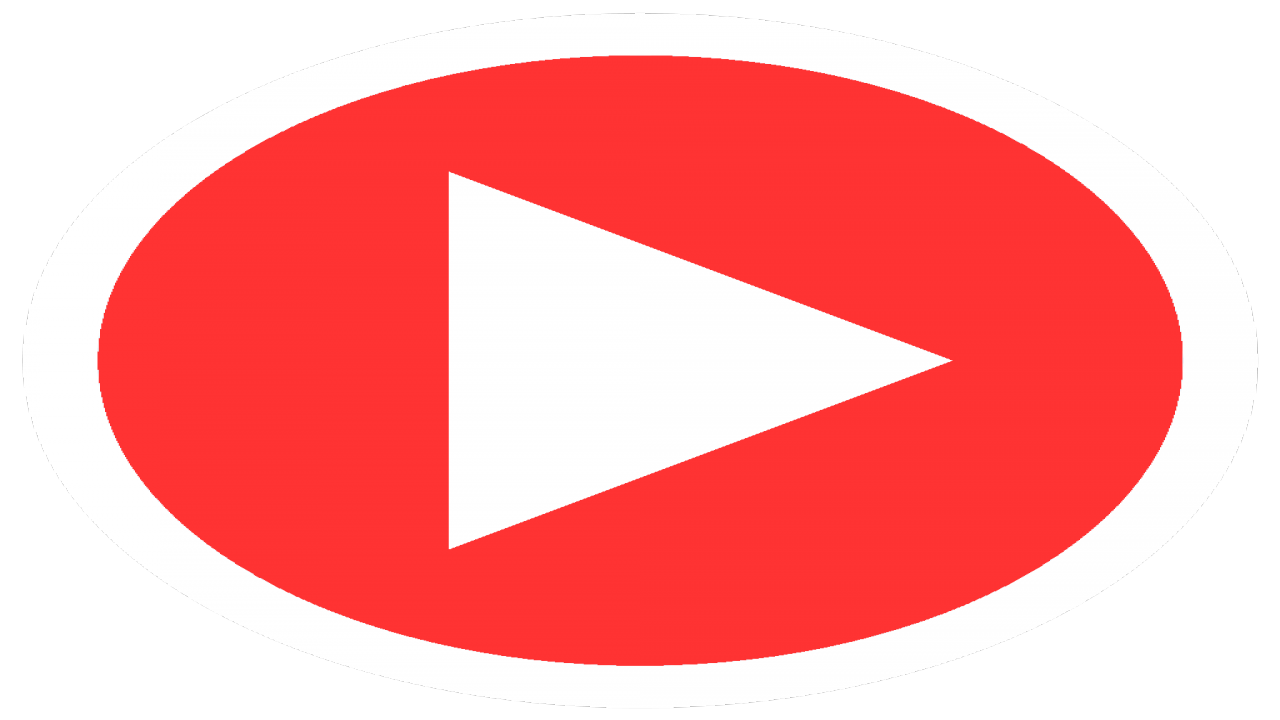
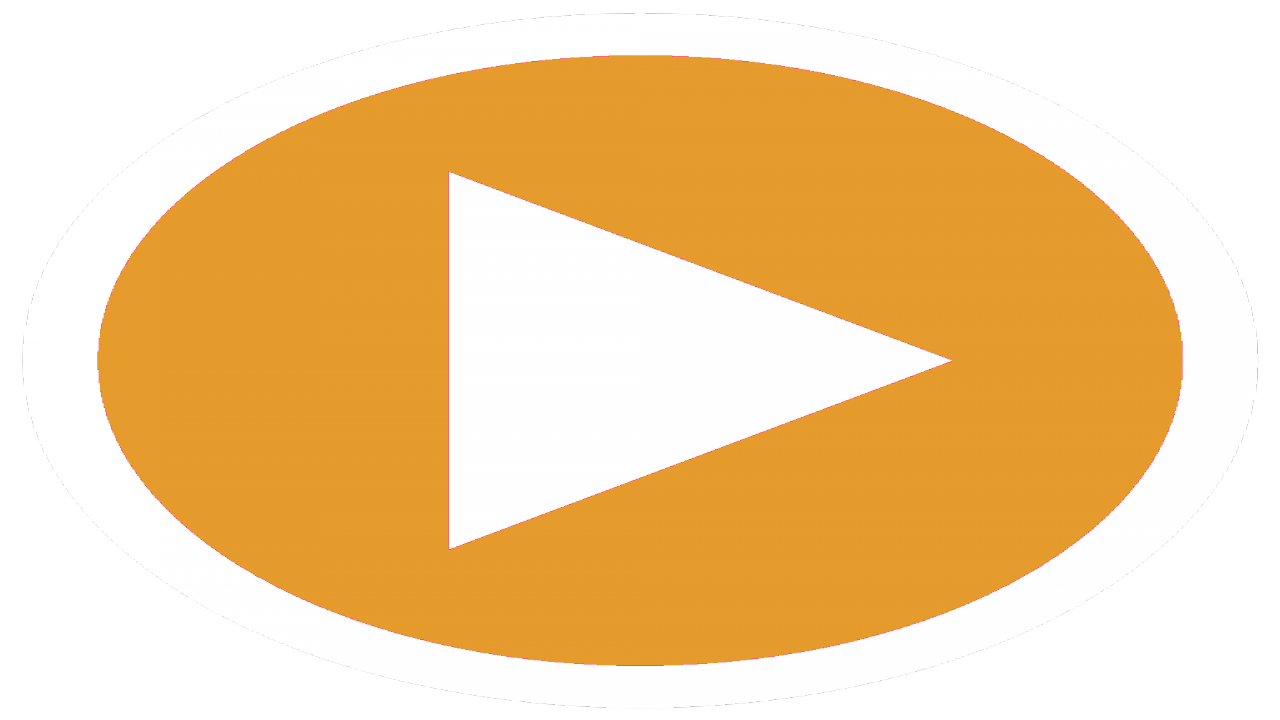
replace depression with summer

diff --git a/index.html b/index.html
@@ -8,28 +8,25 @@
     <meta name="description" content="A Minecraft 1.8.8 hacked client.">
     <meta name="keywords" content="iHaq,Mat,Obscure,Depression,WizardHax,DepressionClient">
 
-    <title>Depression Client</title>
+    <title>Summer Client</title>
 
-    <link href="assets/static/favicon.png" rel="shortcut icon">
+    <link href="favicon.png" rel="shortcut icon">
 
     <link rel="stylesheet" href="assets/css/global.css">
     <link rel="stylesheet" href="assets/css/animation.css">
     <link rel="stylesheet" href="https://fonts.googleapis.com/css?family=Asap">
     <link rel="stylesheet" href="https://use.fontawesome.com/releases/v5.3.1/css/all.css"
           integrity="sha384-mzrmE5qonljUremFsqc01SB46JvROS7bZs3IO2EmfFsd15uHvIt+Y8vEf7N7fWAU" crossorigin="anonymous">
-
-    <script async src="https://ackee.affanhaq.me/tracker.js" data-ackee-server="https://ackee.affanhaq.me" 
-            data-ackee-domain-id="f18d59a2-8ab0-4394-b736-ff6bd5577b8f"></script>
 </head>
 
 <body>
 
 <div class="left">
     <div class="left-content animate-bottom">
-        <h1 style="font-size: 110px">Depression</h1>
-        <h3 style="margin-top: 10px">The way God intended it to be.</h3>
+        <h1 style="font-size: 110px">Summer</h1>
+        <h3 style="margin-top: 10px">The best time to cheat.</h3>
         <h1 style="margin-top: 25px">
-            <a href="https://turboagram.com/5HSo/" class="button">DOWNLOAD</a>
+            <a href="#" class="button">DOWNLOAD</a>
         </h1>
     </div>
 </div>
@@ -77,72 +74,13 @@
             </div>
         </section>
 
-        <section id="team" class="section">
-            <h1 class="section-header">team</h1>
-            <hr class="content">
-
-            <div class="card">
-                <h3 class="card-title">mat</h3>
-                <p class="card-desc">Lead Developer</p>
-                <div class="card-social">
-                    <a class="footer-icon git" target="_blank" href="https://github.com/Mat1337">
-                        <i class="fab fa-github fa-1x"> </i>
-                    </a>
-                </div>
-            </div>
-
-            <div class="card">
-                <h3 class="card-title">funkemunky</h3>
-                <p class="card-desc">Client Developer</p>
-                <div class="card-social">
-                    <a class="footer-icon git" target="_blank" href="https://github.com/funkemunky">
-                        <i class="fab fa-github fa-1x"> </i>
-                    </a>
-                    <a class="footer-icon twitter" target="_blank" href="https://twitter.com/funkemunky">
-                        <i class="fab fa-twitter fa-1x"> </i>
-                    </a>
-                    <a class="footer-icon youtube" target="_blank"
-                       href="https://www.youtube.com/channel/UCFJD2b-40_A0MEJiTWqNtaw">
-                        <i class="fab fa-youtube fa-1x"></i>
-                    </a>
-                    <a class="footer-icon mail" target="_blank" href="mailto:funkemunkybiz@gmail.com">
-                        <i class="fas fa-envelope fa-1x"></i>
-                    </a>
-                </div>
-            </div>
-
-            <div class="card">
-                <h3 class="card-title">flycode</h3>
-                <p class="card-desc">Client Developer</p>
-                <div class="card-social">
-                    <a class="footer-icon twitter" target="_blank" href="https://twitter.com/FlyCode_">
-                        <i class="fab fa-twitter fa-1x"> </i>
-                    </a>
-                </div>
-            </div>
-
-            <div class="card">
-                <h3 class="card-title">haq</h3>
-                <p class="card-desc">Website Developer</p>
-                <div class="card-social">
-                    <a class="footer-icon git" target="_blank" href="https://github.com/haq">
-                        <i class="fab fa-github fa-1x"> </i>
-                    </a>
-                    <a class="footer-icon twitter" target="_blank" href="https://twitter.com/haaaqs">
-                        <i class="fab fa-twitter fa-1x"> </i>
-                    </a>
-                </div>
-            </div>
-
-        </section>
-
-        <section id="footer" class="section footer">
+        <!--<section id="footer" class="section footer">
             <h4>&copy; 2020 Depression Client</h4>
             <hr class="footer">
             <a class="footer-icon git" target="_blank" href="https://github.com/depressionclient">
                 <i class="fab fa-github fa-lg"> </i>
             </a>
-        </section>
+        </section>-->
 
     </div>
 </div>

diff --git a/assets/css/global.css b/assets/css/global.css
@@ -9,7 +9,7 @@
     height: 100%;
     overflow: auto;
     position: absolute;
-    background: #F44336;
+    background: #ff9700;
 }
 
 .right {
@@ -64,6 +64,7 @@ hr.footer {
 }
 
 .footer {
+    position: absolute;
     background: #ededed;
     box-shadow: inset 0 2px 2px 0 rgba(0, 0, 0, 0.14);
 }
@@ -81,14 +82,6 @@ a.footer-icon:hover {
 
 a.git:hover {
     color: #9a9a9a;
-}
-
-a.twitter:hover {
-    color: #1DA1F2;
-}
-
-a.mail:hover, a.youtube:hover {
-    color: red;
 }
 
 .button {
@@ -159,47 +152,6 @@ a.mail:hover, a.youtube:hover {
     cursor: default;
     transition: .3s all;
     border-radius: 8px;
-}
-
-.card {
-    display: inline-block;
-    padding: 25px 10px;
-    width: 100%;
-    max-width: 200px;
-    cursor: default;
-    transition: .4s all;
-    border-radius: 8px;
-    margin: 0;
-}
-
-.card .card-title {
-    width: 100%;
-    height: fit-content;
-    background: red;
-    color: #fff;
-    padding: 10px 0;
-    border-top-left-radius: 5px;
-    border-top-right-radius: 5px;
-}
-
-.card .card-desc {
-    padding: 10px 5px;
-    border-left: 1px solid red;
-    border-right: 1px solid red;
-}
-
-.card .card-social {
-    border-left: 1px solid red;
-    border-right: 1px solid red;
-    border-bottom: 1px solid red;
-    padding: 5px;
-}
-
-.card .card-line {
-    border: none;
-    border-bottom: 1px solid red;
-    width: 85%;
-    margin: 0 auto;
 }
 
 .shadow {
